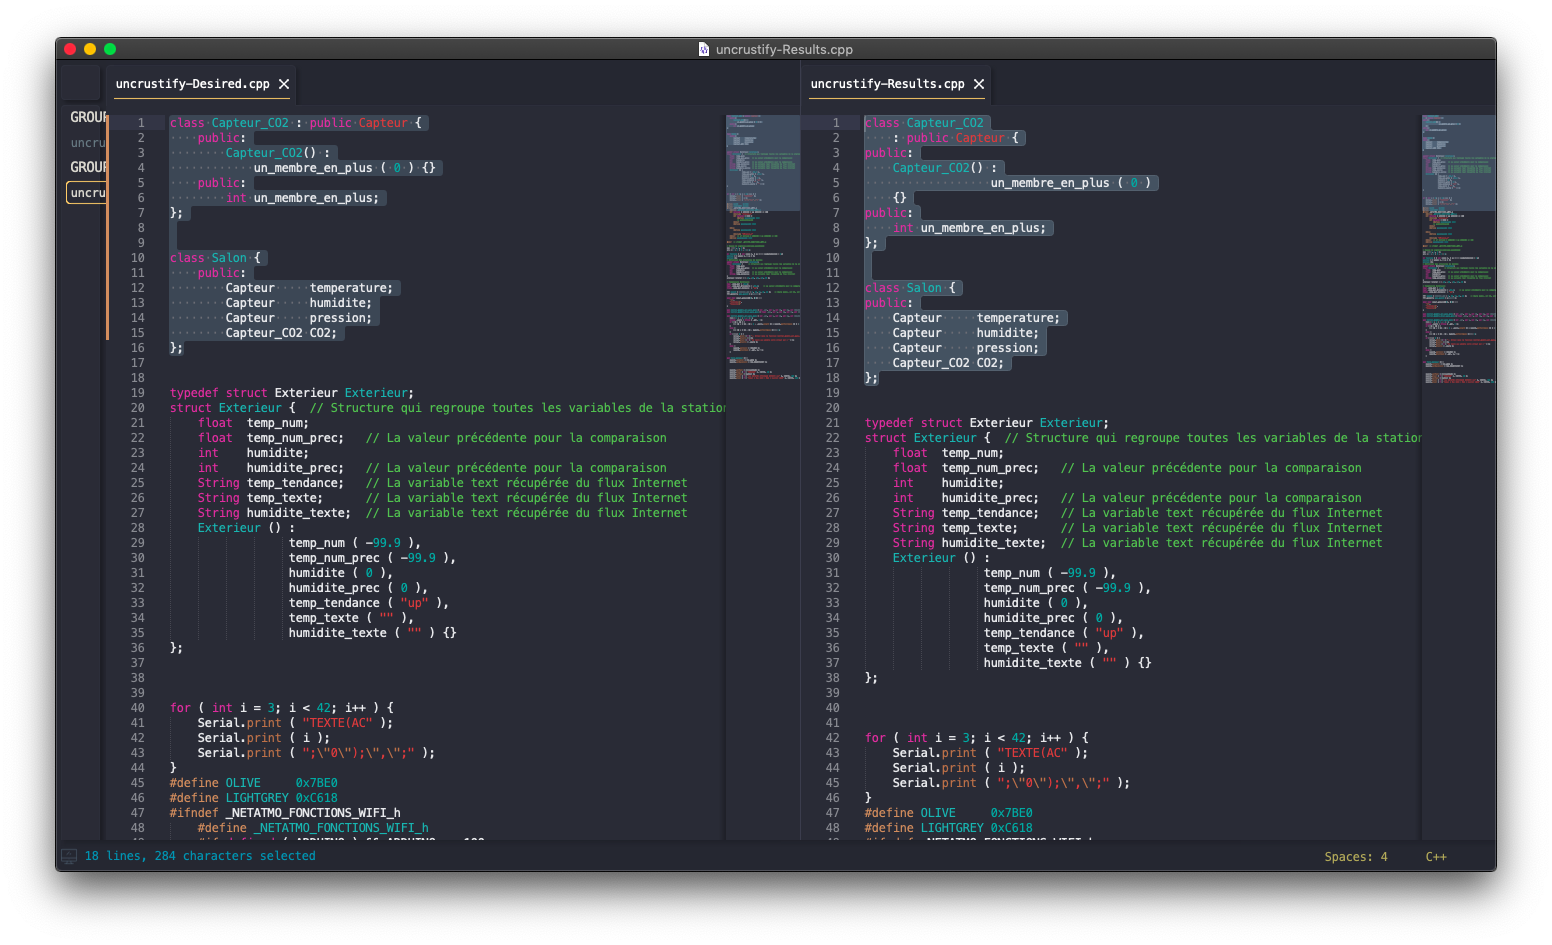
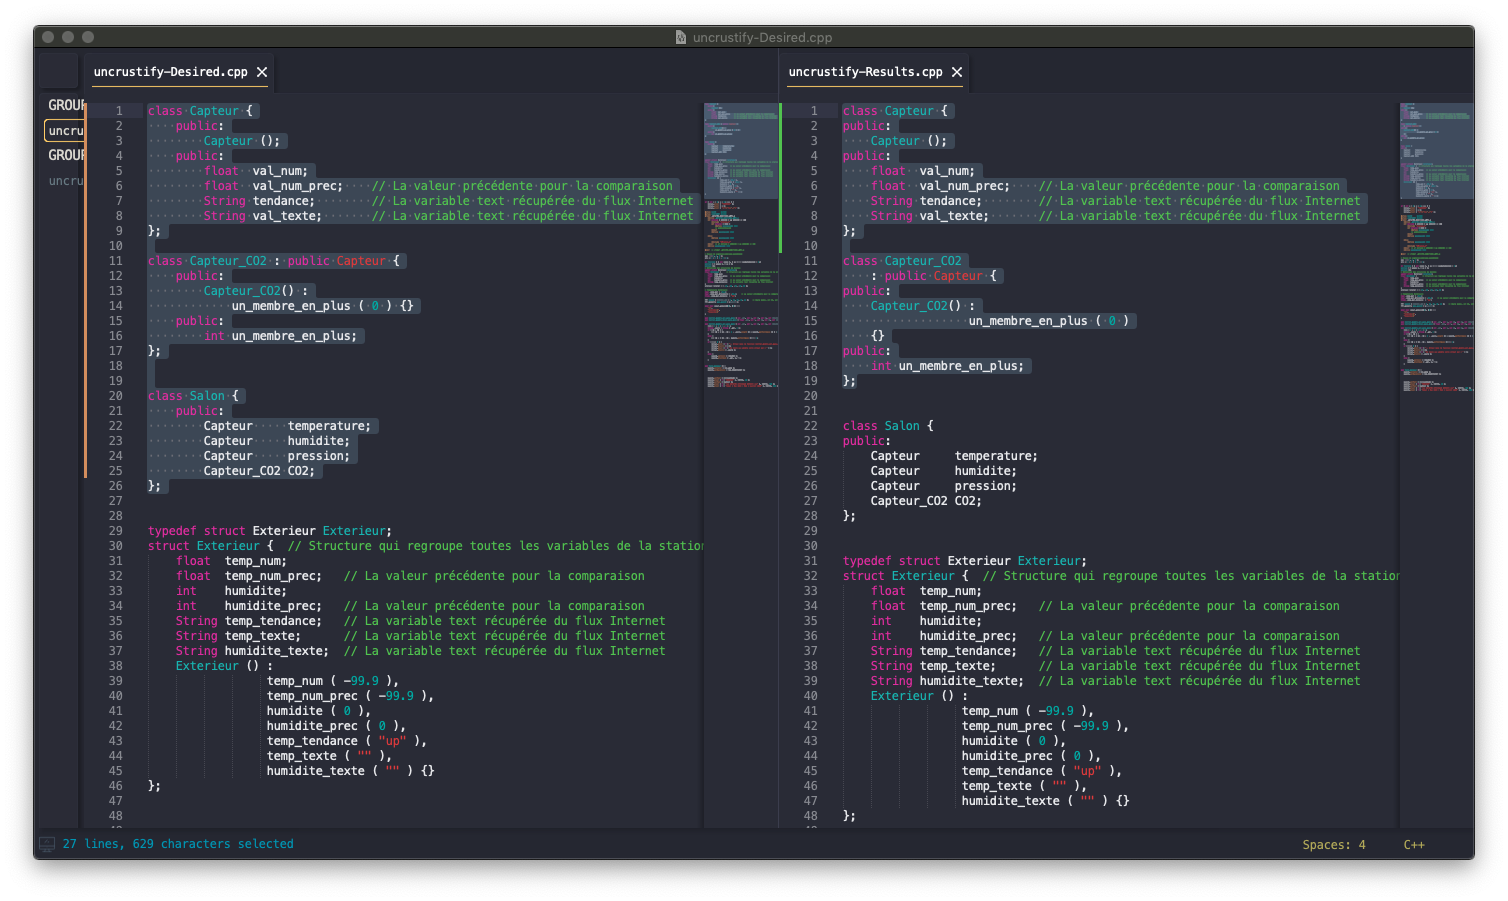
Add files via upload

Changed region(s): [[0.0, 0.0, 0.9973, 0.9945], [0.8727, 0.4351, 0.9038, 0.4661], [0.4363, 0.5905, 0.4675, 0.6215]]

diff --git a/uncrustify-Results.cpp b/uncrustify-Results.cpp
@@ -1,3 +1,13 @@
+class Capteur {
+public:
+    Capteur ();
+public:
+    float  val_num;
+    float  val_num_prec;    // La valeur précédente pour la comparaison
+    String tendance;        // La variable text récupérée du flux Internet
+    String val_texte;       // La variable text récupérée du flux Internet
+};
+
 class Capteur_CO2
     : public Capteur {
 public:
@@ -7,6 +17,7 @@ public:
 public:
     int un_membre_en_plus;
 };
+
 
 class Salon {
 public:

diff --git a/uncrustify-Desired.cpp b/uncrustify-Desired.cpp
@@ -1,3 +1,13 @@
+class Capteur {
+    public:
+        Capteur ();
+    public:
+        float  val_num;
+        float  val_num_prec;    // La valeur précédente pour la comparaison
+        String tendance;        // La variable text récupérée du flux Internet
+        String val_texte;       // La variable text récupérée du flux Internet
+};
+
 class Capteur_CO2 : public Capteur {
     public:
         Capteur_CO2() :
